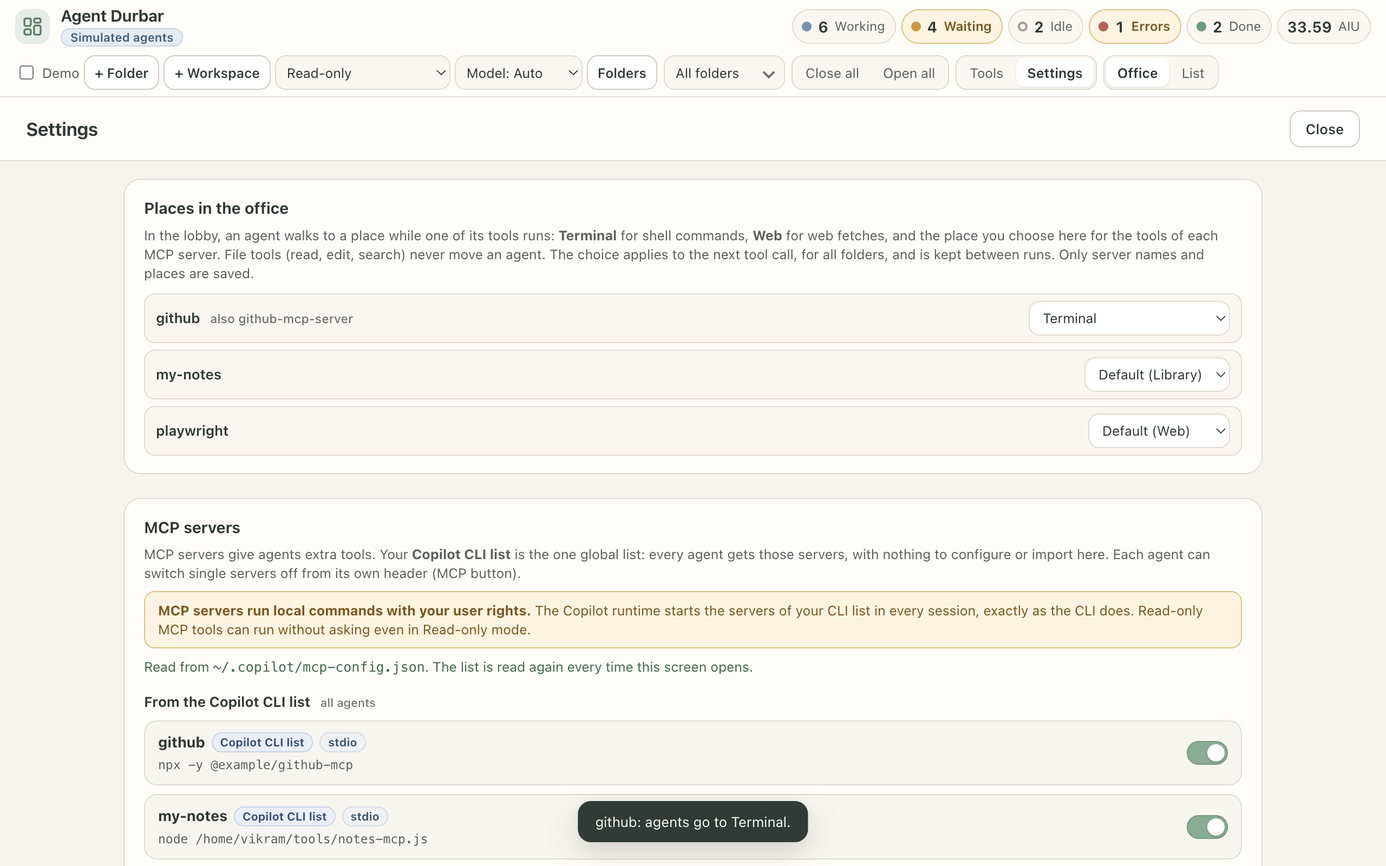
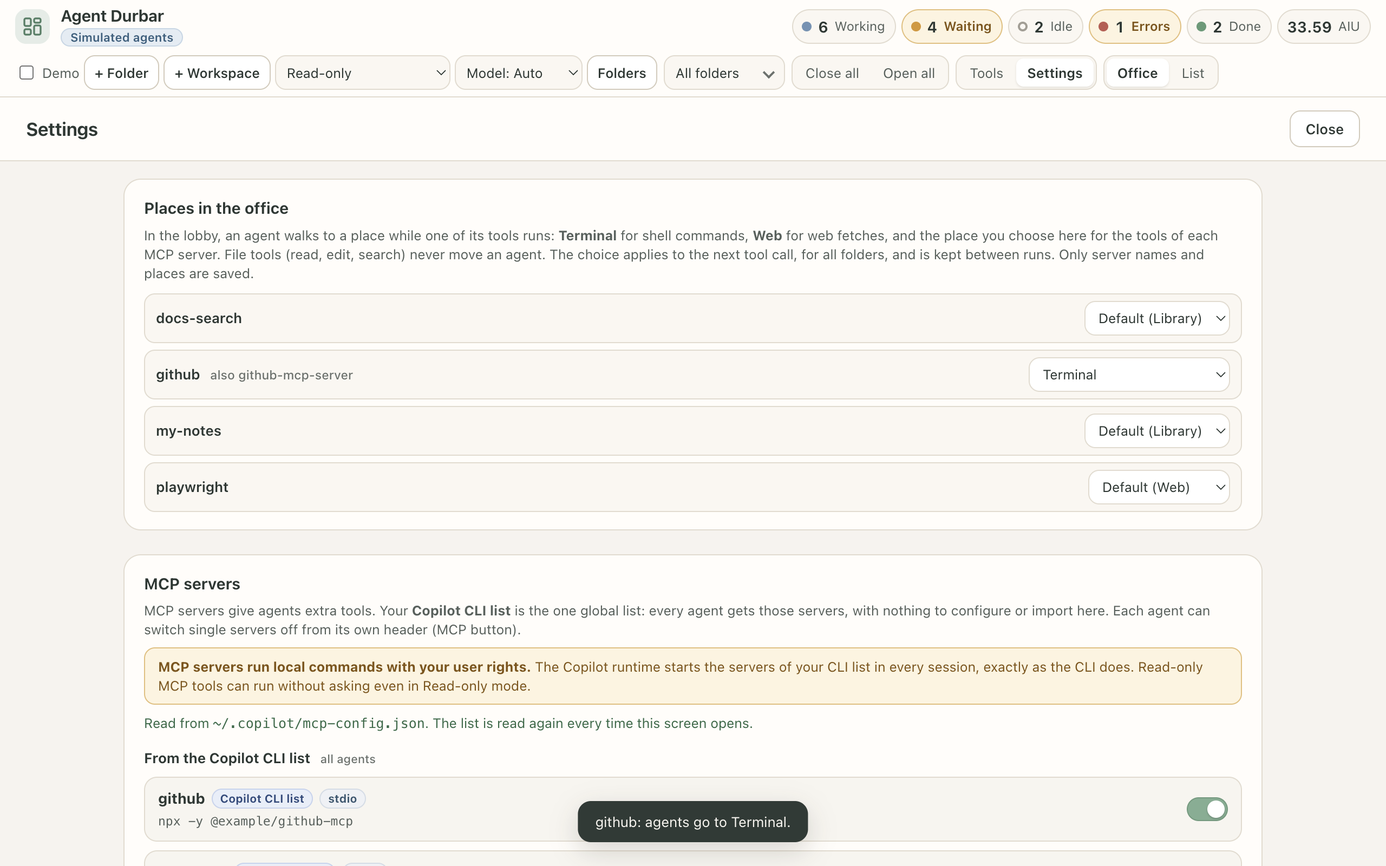
024 delta (issue #116): list per-folder MCP extras in Settings > Places before use
McpStore.extraNames returns the names of every saved folder's extras
(any state, names only, reserved CLI names left out ignoring case,
capped at 500) over a no-argument IPC mcp:extraNames. Settings merges
them through mergePlaceNames before placeRows. Tests in test:mcp and
test:places; shots-024 checks the docs-search row and one playwright
row; Places screenshot retaken. T011, T016-T018.

diff --git a/scripts/test-mcp.ts b/scripts/test-mcp.ts
@@ -449,4 +449,82 @@ const codec = (available = true): SecretCodec => ({
   assert.deepStrictEqual(cliServers(cliDir, new Set()).servers.map((x) => x.name), cliNamesNow, 'the global list is unchanged by a per-folder import');
   assert.strictEqual(fs.readFileSync(fileA, 'utf8'), beforeA);
 }
+// 10. Names of every folder's extras for Settings > Places (spec 024 FR-015, issue #116)
+{
+  const f = tmp();
+  const s = new McpStore(f, codec());
+  s.load();
+  assert.deepStrictEqual(s.extraNames(), [], 'empty store');
+  const stdio = (name: string) => ({ name, transport: 'stdio', command: '/secret/bin/tool-cmd', args: ['--token-arg'], workingDirectory: '/secret/cwd' });
+  assert.ok(s.upsert(K1, stdio('docs-search')).ok); // off, untrusted
+  assert.ok(s.upsert(K1, stdio('on-one')).ok && s.setEnabled(K1, 'on-one', true, true).ok); // on + trusted
+  assert.ok(s.upsert(K1, { name: 'with-secret', transport: 'http', url: 'https://example.test/mcp', headers: [{ key: 'X-Api-Key', value: SECRET }] }).ok);
+  assert.ok(s.upsert(K2, stdio('docs-search')).ok, 'same name in another folder');
+  assert.ok(s.upsert(K2, stdio('notes')).ok && s.upsert(K2, stdio('Notes')).ok === false, 'case variants clash inside one folder');
+  assert.ok(s.upsert(K1, stdio('Notes')).ok, 'a case variant in another folder is a different exact name');
+  assert.ok(s.upsert(K2, stdio('constructor')).ok);
+  assert.deepStrictEqual(s.extraNames(), ['Notes', 'constructor', 'docs-search', 'notes', 'on-one', 'with-secret'], 'every state, each exact name once, sorted');
+  const out = JSON.stringify(s.extraNames());
+  for (const leak of ['/secret', 'tool-cmd', '--token-arg', 'example.test', SECRET, K1, K2, 'X-Api-Key']) assert.ok(!out.includes(leak), 'names only: ' + leak);
+  assert.ok(s.extraNames().every((n) => typeof n === 'string'));
+  // secrets missing: a header with no stored value (saved without an OS store) is still listed
+  {
+    const nf = tmp();
+    const ns = new McpStore(nf, codec(true));
+    ns.load();
+    assert.ok(ns.upsert(K1, { name: 'needs-secret', transport: 'http', url: 'https://example.test/mcp', headers: [{ key: 'X-Api-Key', value: SECRET }] }).ok);
+    const ls = new McpStore(nf, codec(false)); // reload where the secret cannot be decrypted
+    ls.load();
+    assert.strictEqual(ls.list(K1)[0].needsSecrets, true, 'the secret is missing');
+    assert.deepStrictEqual(ls.extraNames(), ['needs-secret'], 'listed although its secrets are missing');
+  }
+  // reserved names (CLI list, built-in) are left out ignoring case; the others stay
+  assert.deepStrictEqual(s.extraNames(['NOTES', 'On-One']), ['constructor', 'docs-search', 'with-secret'], 'reserved ignores case and removes every case variant');
+  // does not touch the store
+  assert.strictEqual(s.list(K1).length, 4);
+  // a removed extra disappears, but only when no other folder has it
+  assert.ok(s.remove(K1, 'docs-search'));
+  assert.ok(s.extraNames().includes('docs-search'), 'folder B still has it');
+  assert.ok(s.remove(K2, 'docs-search'));
+  assert.ok(!s.extraNames().includes('docs-search'), 'removed everywhere: gone');
+  // survives a reload of the same file
+  const again = new McpStore(f, codec());
+  again.load();
+  assert.deepStrictEqual(again.extraNames(), s.extraNames(), 'same names after load()');
+  // legacy servers are not listed; a hand-edited prototype key or bad name is dropped
+  const g = tmp();
+  const doc = {
+    version: 2,
+    folders: { [K1]: [
+      { name: 'good', transport: 'stdio', command: 'node' },
+      { name: '__proto__', transport: 'stdio', command: 'node' },
+      { name: 'bad name', transport: 'stdio', command: 'node' },
+      { name: 'x'.repeat(49), transport: 'stdio', command: 'node' },
+    ] },
+    legacy: [{ name: 'old-fetch', transport: 'stdio', command: 'uvx' }],
+  };
+  fs.writeFileSync(g, JSON.stringify(doc));
+  const h = new McpStore(g, codec());
+  h.load();
+  assert.deepStrictEqual(h.extraNames(), ['good'], 'legacy, __proto__, bad and too long names are not listed');
+  assert.strictEqual(({} as Record<string, unknown>).good, undefined, 'no pollution');
+  // a broken file gives an empty list
+  const b = tmp();
+  fs.writeFileSync(b, '{ not json');
+  const bs = new McpStore(b, codec());
+  bs.load();
+  assert.deepStrictEqual(bs.extraNames(['x']), []);
+  // the cap: 600 distinct names over 7 folders -> 500, sorted
+  const cf = tmp();
+  const big: Record<string, unknown[]> = {};
+  for (let i = 0; i < 600; i++) (big['/work/f' + (i % 7)] ??= []).push({ name: 'srv' + String(i).padStart(3, '0'), transport: 'stdio', command: 'node' });
+  fs.writeFileSync(cf, JSON.stringify({ version: 2, folders: big, legacy: [] }));
+  const cs = new McpStore(cf, codec());
+  cs.load();
+  const capped = cs.extraNames();
+  assert.strictEqual(capped.length, 500, 'capped at 500');
+  assert.deepStrictEqual(capped, [...capped].sort(), 'sorted');
+  assert.strictEqual(capped[0], 'srv000');
+  assert.strictEqual(capped[499], 'srv499', 'the first 500 by name');
+}
 console.log('mcp tests passed');

diff --git a/src/renderer/screens.js b/src/renderer/screens.js
@@ -86,8 +86,8 @@
     const fileNote=!f.found?`<p class="scr-note" role="status">No <code>${esc(f.label)}</code> yet. Servers you add with the Copilot CLI (<code>/mcp add</code>) or by editing that file appear here by themselves. The built-in GitHub server is always listed.</p>`
       :f.error?`<p class="scr-note warn" role="status"><code>${esc(f.label)}</code> could not be read (${esc(f.error)}). Fix the file; this list updates the next time you open this screen.</p>`
       :`<p class="scr-note ok" role="status">Read from <code>${esc(f.label)}</code>${f.skipped?` · ${f.skipped} entr${f.skipped>1?'ies were':'y was'} skipped (not usable)`:''}. The list is read again every time this screen opens.</p>`;
-    /* Places (spec 024 FR-008): which place the tool calls of each MCP server walk to. Servers: the Copilot CLI list, every server seen in
-       tool events this run (folder extras show up once an agent uses them) and any already mapped. */
+    /* Places (spec 024 FR-008): which place the tool calls of each MCP server walk to. Servers: the Copilot CLI list, the names of every saved folder's
+       extras, every server seen in tool events this run and any already mapped. */
     /* Agent mood (spec 034 FR-004): Serious mode turns the monster, ambulance and the other drawings off */
     const moodSec=X.bridge.setSeriousMode&&X.isSerious?`<section class="scr-sec" aria-labelledby="moodH"><h3 id="moodH">Agent mood</h3>
         <p class="scr-note">Agent figures get heavier from 70% of their context window and turn into a grumpy monster above 90% (a hint to start a fresh session). Trouble gets a drawing too: an ambulance when a session errors (one at a time), a faint at the credit limit, an agent tapping the desk after 60 s waiting for you, and dizzy stars after 3 failed tool calls in a row. The text and percentages never change. Serious mode turns every drawing off.</p>
@@ -95,7 +95,10 @@
     let placesSec='';
     if(X.bridge.setPlace&&X.places){
       const P=X.places, map=app.placeMap||{};
-      const names=[...new Set([...mcp.cli.map(c=>c.name),...X.placeServers(),...Object.keys(map)])];
+      /* names of every saved folder's extras (spec 024 FR-016); a missing call or bad data keeps today's list */
+      let extra=null;
+      if(X.bridge.mcpExtraNames){try{extra=await X.bridge.mcpExtraNames();}catch(e){extra=null;}}
+      const names=P.mergePlaceNames(mcp.cli.map(c=>c.name),extra,X.placeServers(),Object.keys(map));
       const rows=P.placeRows(names,map).map(({name:n,aliases,value:v})=>{const note=aliases.length?' also '+aliases.join(', '):'';
         return `<li class="plrow" data-srv="${esc(n)}" data-alias="${esc(aliases.join('\n'))}"><span class="plname" title="${esc(n+note)}">${esc(n)}${note?` <small>${esc(note.trim())}</small>`:''}</span><select data-place-sel aria-label="Place for the tools of ${esc(n)}"><option value=""${v?'':' selected'}>Default (${esc(P.placeName(P.defaultServerPlace(n)))})</option>${P.PLACES.map(p=>`<option value="${p.id}"${v===p.id?' selected':''}>${esc(p.name)}</option>`).join('')}<option value="desk"${v==='desk'?' selected':''}>Stay at desk</option></select></li>`;}).join('');
       placesSec=`<section class="scr-sec" aria-labelledby="plH"><h3 id="plH">Places in the office</h3>

diff --git a/scripts/test-places.ts b/scripts/test-places.ts
@@ -20,6 +20,7 @@ const P = require(path.join(__dirname, '..', '..', 'src', 'renderer', 'places.js
   classify: (e: unknown, map?: unknown) => string;
   canonicalServer: (s: unknown) => unknown;
   placeRows: (names: unknown, map?: unknown) => { name: string; aliases: string[]; value: string }[];
+  mergePlaceNames: (cli: unknown, extra: unknown, seen: unknown, mapped: unknown) => string[];
   placeSaves: (name: string, place: string | null, aliases?: string[]) => [string, string | null][];
   defaultServerPlace: (s: unknown) => string;
   toolLabel: (e: unknown) => string;
@@ -206,6 +207,20 @@ assert.deepStrictEqual(rows(['github', 'github-mcp-server'], { github: 'library'
 {
   const both = { github: 'library', 'github-mcp-server': 'web' };
   assert.strictEqual(P.placeRows(['github', 'github-mcp-server'], both)[0].value, c('x', 'github-mcp-server', both), 'both keys: the row shows what classify() does for a github-mcp-server call');
+}
+// FR-016: extra names from the main process are merged with the CLI list before placeRows: one row per name, aliases folded
+assert.deepStrictEqual(rows(['github', 'my-notes', ...['docs-search', 'github-mcp-server', 'my-notes', 'playwright'], 'playwright']), ['docs-search||', 'github|github-mcp-server|', 'my-notes||', 'playwright||'], 'an extra that is a CLI name or an alias gives one row; an unused extra gets a default row');
+assert.deepStrictEqual(rows([...new Set(['github', 'my-notes', 'github-mcp-server', 'docs-search'])], { 'docs-search': 'web' }), ['docs-search||web', 'github|github-mcp-server|', 'my-notes||'], 'an unused extra can carry a saved place');
+{
+  const m = P.mergePlaceNames;
+  const cli = ['github', 'my-notes', 'github-mcp-server'];
+  assert.deepStrictEqual(m(cli, { ok: true, names: ['docs-search', 'playwright'] }, ['playwright'], []), ['github', 'my-notes', 'github-mcp-server', 'docs-search', 'playwright'], 'extras are added, each name once');
+  for (const bad of [undefined, null, 'x', 5, {}, { ok: true }, { names: 'x' }, { names: null }, { names: { 0: 'a' } }]) assert.deepStrictEqual(m(cli, bad, [], []), cli, 'no usable result adds nothing: ' + JSON.stringify(bad));
+  assert.deepStrictEqual(m([], { names: [1, '', 'a', null, {}, 'a', 'b'] }, [], []), ['a', 'b'], 'only non-empty strings are kept');
+  assert.deepStrictEqual(m(null, { names: ['x'] }, undefined, 'y'), ['x'], 'bad lists are ignored');
+  assert.deepStrictEqual(m([], null, [], ['only-mapped']), ['only-mapped'], 'a name that is only mapped is kept');
+  const merged = m(cli, { names: ['docs-search', 'playwright', 'github-mcp-server', 'acme'] }, ['playwright', 'acme'], ['acme', 'docs-search']);
+  assert.deepStrictEqual(rows(merged, { acme: 'web' }), ['acme||web', 'docs-search||', 'github|github-mcp-server|', 'my-notes||', 'playwright||'], 'an extra that is also seen, mapped, a CLI name or an alias gives one row');
 }
 assert.deepStrictEqual(rows(['acme'], { acme: 'terminal' }), ['acme||terminal'], 'other rows unchanged');
 assert.deepStrictEqual(rows(['github'], Object.create({ github: 'web' })), ['github||'], 'inherited keys ignored');

diff --git a/src/main/mcpstore.ts b/src/main/mcpstore.ts
@@ -8,7 +8,7 @@
  */
 import * as fs from 'fs';
 import * as path from 'path';
-import { MAX_SERVERS, trustHash, validateInput } from '../shared/mcp';
+import { MAX_SERVERS, NAME_RE, trustHash, validateInput } from '../shared/mcp';
 import type { McpSecretKey, McpServerInput, McpServerSpec, McpServerView, McpTransport, McpTrustInfo } from '../shared/mcp';
 
 export interface SecretCodec {
@@ -55,6 +55,7 @@ export interface SessionMcp {
 const MAX_FILE = 2 * 1024 * 1024;
 const MAX_FOLDERS = 200;
 const MAX_KEY = 4096;
+const MAX_EXTRA_NAMES = 500;
 const lc = (s: string): string => String(s).toLowerCase();
 
 export class McpStore {
@@ -213,6 +214,22 @@ export class McpStore {
   /** Servers of the old app-level list: shown (off, not applied) so the user can move or remove them. */
   legacyList(): McpServerView[] {
     return this.legacyRecs.map((r) => ({ ...this.view(r), enabled: false }));
+  }
+
+  /**
+   * Names only (spec 024 FR-015): the extras of every saved folder, in any state (on, off, untrusted, secrets missing), each exact name once,
+   * for the Settings > Places list. Memory only; no command, URL, env, folder key or path. Old app-level servers are not included. A name that
+   * matches `reserved` (the Copilot CLI list, built-in servers) ignoring case is left out: its CLI row already covers it.
+   */
+  extraNames(reserved: Iterable<string> = []): string[] {
+    const taken = new Set<string>([...reserved].map(lc));
+    const out = new Set<string>();
+    for (const list of this.folders.values())
+      for (const r of list) {
+        if (typeof r.name !== 'string' || !NAME_RE.test(r.name) || r.name === '__proto__' || taken.has(lc(r.name))) continue;
+        out.add(r.name);
+      }
+    return [...out].sort((a, b) => (a < b ? -1 : a > b ? 1 : 0)).slice(0, MAX_EXTRA_NAMES);
   }
 
   trustInfo(key: string, name: string): McpTrustInfo | undefined {

diff --git a/src/renderer/places.js b/src/renderer/places.js
@@ -50,6 +50,15 @@
       return r;
     }).sort((a,b)=>a.name.localeCompare(b.name));
   }
+  /* Names for Settings > Places (spec 024 FR-016): the Copilot CLI servers, the names of every saved folder's extras (`extraResult` is what
+     mcpExtraNames() returned; anything but {names:[...]} adds nothing and non-string or empty entries are skipped), servers seen in tool events
+     this run and the names already mapped. Each exact name once; placeRows then folds aliases and case-sensitive duplicates stay as they are. */
+  function mergePlaceNames(cli,extraResult,seen,mapped){
+    const list=v=>Array.isArray(v)?v:[];
+    const extra=extraResult&&typeof extraResult==='object'&&Array.isArray(extraResult.names)?extraResult.names:[];
+    const all=[...list(cli),...extra,...list(seen),...list(mapped)];
+    return [...new Set(all.filter(n=>typeof n==='string'&&n))];
+  }
   /* Saves for one row: the canonical key gets the choice (null = default), then every alias key is cleared. */
   function placeSaves(name,place,aliases){
     return [[name,place],...(aliases||[]).map(a=>[a,null])];
@@ -156,5 +165,5 @@
     return {shown:cap-1,more:count-(cap-1)};
   }
 
-  return {PLACES,IDS,placeName,classify,canonicalServer,placeRows,placeSaves,defaultServerPlace,toolLabel,createVisits,layoutSpots};
+  return {PLACES,IDS,placeName,classify,canonicalServer,placeRows,mergePlaceNames,placeSaves,defaultServerPlace,toolLabel,createVisits,layoutSpots};
 })());

diff --git a/scripts/shots-024.js b/scripts/shots-024.js
@@ -39,6 +39,16 @@ module.exports = async (ctx) => {
     await ctx.sleep(1500);
     await settle();
 
+    // FR-016/FR-017 (issue #116): Settings lists docs-search (an extra that is off, untrusted and never called) with the default place, and one playwright row
+    await js(`document.getElementById('settingsBtn').click()`); await ctx.sleep(900);
+    const ex = await js(`(()=>{const q=n=>[...document.querySelectorAll('#plList .plrow')].filter(r=>r.dataset.srv===n);const d=q('docs-search')[0];const o=d&&d.querySelector('select option:checked');return {docs:q('docs-search').length,docsDefault:o?o.textContent.trim():'',pw:q('playwright').length}})()`);
+    assert.strictEqual(ex.docs, 1, 'Settings lists docs-search before any call');
+    // the name rules send `docs*` servers to the Library by default (spec 024 #116 scenario 1)
+    assert.strictEqual(ex.docsDefault, 'Default (Library)', 'docs-search shows the default place: ' + ex.docsDefault);
+    assert.strictEqual(ex.pw, 1, 'exactly one playwright row');
+    console.log('[024]', w, 'extras rows', JSON.stringify(ex));
+    await js(`document.getElementById('scrClose').click()`); await ctx.sleep(500);
+
     // SC-001: the right place for each open call, empty chair at the desk, figures on slots
     const vs = await visits();
     console.log('[024]', w, 'visits', JSON.stringify(vs.map((v) => `${v.name}@${v.place}:${v.label}`)));

diff --git a/src/renderer/sim.ts b/src/renderer/sim.ts
@@ -524,6 +524,12 @@ const SIM_EXPENSIVE: Record<string, number> = { Omar: 11 };
     const folderName = (key: string): string => key.replace(/\/+$/, '').split('/').pop() || key;
     const mcpApi: Partial<DurbarApi> = {
       mcpState: async () => ({ cli: fakeCli.map((a) => ({ ...a })), file: { label: '~/.copilot/mcp-config.json', found: true, skipped: 0 }, secretsPersist: true }),
+      mcpExtraNames: async () => {
+        const taken = new Set(fakeCli.map((a) => a.name.toLowerCase()));
+        const names = new Set<string>();
+        for (const list of Object.values(fakeExtras)) for (const v of list) if (!taken.has(v.name.toLowerCase())) names.add(v.name);
+        return { ok: true, names: [...names].sort().slice(0, 500) };
+      },
       mcpSetCli: async (name, enabled) => { const a = fakeCli.find((x) => x.name === name); if (a) a.enabled = enabled; return { ok: !!a }; },
       mcpFolderState: async (key) => !knownFolder(key)
         ? { ok: false, error: 'Unknown folder.', key, name: '', servers: [], legacy: [], secretsPersist: true, skipped: [], cliNames: [] }

diff --git a/src/shared/api.ts b/src/shared/api.ts
@@ -347,6 +347,8 @@ export interface DurbarApi {
   usageResetTotals?(): Promise<UsageTotalsView>;
   /** MCP (specs 019, 020): the Copilot CLI list is global and read live; extras are per folder/workspace key (`workspaceFile ?? cwd`). */
   mcpState?(): Promise<McpState>;
+  /** Names of the extras of every saved folder (any state), nothing else: for the Places list (spec 024 FR-016). */
+  mcpExtraNames?(): Promise<{ ok: boolean; names: string[] }>;
   mcpSetCli?(name: string, enabled: boolean): Promise<{ ok: boolean }>;
   mcpFolderState?(key: string): Promise<McpFolderState>;
   mcpUpsert?(key: string, input: McpServerInput, originalName?: string): Promise<McpResult>;

diff --git a/src/main/mcpipc.ts b/src/main/mcpipc.ts
@@ -83,6 +83,8 @@ export function registerMcpIpc(deps: { store: () => McpStore; agents: Map<string
   };
 
   ipcMain.handle('mcp:state', () => state());
+  /** Names of every saved folder's extras, nothing else (spec 024 FR-016). No arguments; names that equal a CLI/built-in server are left out. */
+  ipcMain.handle('mcp:extraNames', () => ({ ok: true, names: store().extraNames(cliNames()) }));
   ipcMain.handle('mcp:setCli', (_e, name: unknown, enabled: unknown) => {
     if (typeof name !== 'string' || !name || name.length > 64) return { ok: false };
     store().setAmbientDisabled(name, enabled !== true);

diff --git a/src/preload/preload.ts b/src/preload/preload.ts
@@ -44,6 +44,7 @@ const api: DurbarApi = {
   usageTotals: () => ipcRenderer.invoke('usage:totals'),
   usageResetTotals: () => ipcRenderer.invoke('usage:resetTotals'),
   mcpState: () => ipcRenderer.invoke('mcp:state'),
+  mcpExtraNames: () => ipcRenderer.invoke('mcp:extraNames'),
   mcpSetCli: (name, enabled) => ipcRenderer.invoke('mcp:setCli', name, enabled),
   mcpFolderState: (key) => ipcRenderer.invoke('mcp:folderState', key),
   mcpUpsert: (key, input, originalName) => ipcRenderer.invoke('mcp:upsert', key, input, originalName),

diff --git a/specs/024-office-places/spec.md b/specs/024-office-places/spec.md
@@ -67,8 +67,8 @@ In Settings I see the MCP servers I use (the Copilot CLI list, my per-folder ext
 - **FR-005** `[IMPLEMENTED]` (sim:; check:office; walk observed 24 s live) **Walking**: when a visit starts, the agent's desk scene shows an empty chair and an overlay figure walks on a straight line from the desk to its spot at the place in about 1 s (walking animation, CSS only, no blur filters), stands there, and walks back the same way when the visit ends. At most 3 walks animate at once; others appear without animation. `prefers-reduced-motion`: no animation. Figure positions are recomputed after every render, so resizes and layout changes do not leave figures in the wrong place.
 - **FR-006** `[IMPLEMENTED]` (sim:; check:office) **Text stays**: the card's activity text and tooltip say `at <Place>: <tool>` while visiting; the overlay figures are `aria-hidden`; each place has an accessible label "Software library: Ada, Kenji".
 - **FR-007** `[IMPLEMENTED]` (test: credits, places) **Mapping storage**: `placeMap` (`{ [serverName]: placeId | 'desk' }`) in the existing app settings file (`durbar-settings.json`, spec 011), validated in the main process (known place ids only, server names trimmed and capped at 200 characters, at most 500 entries); IPC `settings:get` returns it, `settings:setPlace(server, place|null)` sets or clears one entry. Global per user; no per-folder override.
-- **FR-008** `[IMPLEMENTED]` (sim:) **Settings screen**: a "Places in the office" section lists MCP servers (the Copilot CLI list, every server seen in tool events during this run, and any already mapped; per-folder extras appear once an agent has used them, because extras cannot be listed globally), each with a place picker (Library, Software library, Terminal, Web, Other tools, Stay at desk) and "default" shown when unmapped; changes apply to the next tool call.
-  - `[KNOWN GAP]` (task T011) Per-folder MCP extras are listed only after an agent has used them in this run: extras are stored per folder and there is no app-wide list to read them from without opening each folder. → specified 2026-10-18 (issue #116): the main process lists the names of every saved folder's extras, see `## Changes` 2026-10-18 (second entry), FR-015..FR-017; planned in T016-T018.
+- **FR-008** `[IMPLEMENTED]` (sim:) **Settings screen**: a "Places in the office" section lists MCP servers (the Copilot CLI list, the names of every saved folder's extras (FR-015/FR-016, delta 2026-10-18 #116), every server seen in tool events during this run, and any already mapped), each with a place picker (Library, Software library, Terminal, Web, Other tools, Stay at desk) and "default" shown when unmapped; changes apply to the next tool call.
+  - ~~`[KNOWN GAP]`~~ resolved 2026-10-18 (task T011, issue #116): per-folder MCP extras used to be listed only after an agent has used them in this run: extras are stored per folder and there is no app-wide list to read them from without opening each folder. → specified 2026-10-18 (issue #116): the main process lists the names of every saved folder's extras, see `## Changes` 2026-10-18 (second entry), FR-015..FR-017; built in T016-T018 `[IMPLEMENTED]`.
 - **FR-009** `[IMPLEMENTED]` (check:office 105/105) **Calm UI** (constitution V): text at least 10.5px; with 15 simulated agents at 1440x900 and 1280x800 the lobby fits without overlapping rooms or scrolling the office (`npm run check:office` stays green, extended with lobby checks); no new strong colors.
 - **FR-010** `[IMPLEMENTED]` (test: places, credits; sim: shots-024.js, screenshots) **Tests, no credits**: classification, visit state machine (debounce, dwell, newest wins, leave on stop), lobby occupancy (`+N`), settings parsing; simulator screenshots with agents in the lobby and walking.
 - **FR-011** `[IMPLEMENTED]` (test: places, credits) Privacy: nothing leaves the machine; the mapping stores server names and place ids only.
@@ -129,11 +129,11 @@ Asked for by Ruben. Real Copilot runtime (Copilot CLI 1.0.95, SDK 1.0.22, model 
     - **Not the old app-level servers** (spec 020 "Old app-level servers (not applied)"): they are never passed to a session. One that is moved into a folder becomes a folder extra and is listed from then on.
     - **Not `.vscode/mcp.json` itself.** Only servers saved as extras are listed; servers in a folder's VS Code file that were never imported are not (that would mean reading files in folders, and those servers do not run).
     - **A separate IPC, `mcp:extraNames`** (no arguments), not a new field of `mcp:state`: `McpState` stays "the global list" (its comment in `src/shared/api.ts` keeps saying there is no app-level list of extras), and a renderer without the call (an older simulator bridge) keeps today's list.
-  - **FR-015** `[KNOWN GAP]` (planned: T016) `McpStore.extraNames(reserved)` in `src/main/mcpstore.ts`: the names of the extras of every saved folder, each name once (exact match: `placeMap` and tool events are keyed by the exact name), sorted, at most 500 (the `placeMap` cap). A name that matches a `reserved` name (the Copilot CLI list and the built-in servers) ignoring case is left out: the CLI row already covers it, and `forSession` never passes such an extra. Legacy servers are not included. Reads memory only (no file system access per call), so folder keys and path styles (`C:\...`, `/home/...`, `.code-workspace` files) play no part and Windows, macOS and Linux behave the same. Unit tests in `scripts/test-mcp.ts`.
-  - **FR-016** `[KNOWN GAP]` (planned: T017) IPC `mcp:extraNames` in `src/main/mcpipc.ts` returns `{ ok: true, names }` with `reserved` = the current CLI names (`cliNames()`), preload `mcpExtraNames()`, type in `src/shared/api.ts` (agent-neutral, names only), and a simulator bridge in `src/renderer/sim.ts` built from its fake extras (so `docs-search`, a fake extra that is off, untrusted and never called, gets a row). Settings > Places (`src/renderer/screens.js`) adds these names to the list before `placeRows`, so `canonicalServer` and the one-row rule of FR-013 apply to them too. If the call is missing, fails or returns something that is not a list of strings, Settings shows today's list and no error. The list is read every time Settings opens, like the CLI list.
-  - **FR-017** `[KNOWN GAP]` (planned: T018) Checks and docs: `scripts/shots-024.js` opens Settings with no call from `docs-search` and checks that its row is there with the default place, and that `playwright` (a fake extra that is also seen in events) has one row; `check:office` stays green (no office change). Docs: README places text (drop "per-folder extras appear once an agent has used them"), CHANGELOG *Unreleased*, specs index row, the comment above the Places section in `screens.js`, and FR-008's known gap marked resolved. The Settings screenshot is retaken only if the visible rows change.
+  - **FR-015** `[IMPLEMENTED]` (T016; test: `test:mcp` section 10) `McpStore.extraNames(reserved)` in `src/main/mcpstore.ts`: the names of the extras of every saved folder, each name once (exact match: `placeMap` and tool events are keyed by the exact name), sorted in plain code-unit order (the same on every platform; the visible rows are still sorted by `placeRows`), at most 500 (the `placeMap` cap). A name that matches a `reserved` name (the Copilot CLI list and the built-in servers) ignoring case is left out: the CLI row already covers it, and `forSession` never passes such an extra. Legacy servers are not included. Reads memory only (no file system access per call), so folder keys and path styles (`C:\...`, `/home/...`, `.code-workspace` files) play no part and Windows, macOS and Linux behave the same. Unit tests in `scripts/test-mcp.ts`.
+  - **FR-016** `[IMPLEMENTED]` (T017; test: `test:places` `mergePlaceNames`; sim: `shots-024.js`) IPC `mcp:extraNames` in `src/main/mcpipc.ts` returns `{ ok: true, names }` with `reserved` = the current CLI names (`cliNames()`), preload `mcpExtraNames()`, type in `src/shared/api.ts` (agent-neutral, names only), and a simulator bridge in `src/renderer/sim.ts` built from its fake extras (so `docs-search`, a fake extra that is off, untrusted and never called, gets a row). Settings > Places (`src/renderer/screens.js`) adds these names to the list before `placeRows`, so `canonicalServer` and the one-row rule of FR-013 apply to them too. If the call is missing, fails or returns something that is not a list of strings, Settings shows today's list and no error. The list is read every time Settings opens, like the CLI list.
+  - **FR-017** `[IMPLEMENTED]` (T018; sim: `shots-024.js` at 1440x900 and 1280x800, `check:office`) Checks and docs: `scripts/shots-024.js` opens Settings with no call from `docs-search` and checks that its row is there with the default place, and that `playwright` (a fake extra that is also seen in events) has one row; `check:office` stays green (no office change). Docs: README places text (drop "per-folder extras appear once an agent has used them"), CHANGELOG *Unreleased*, specs index row, the comment above the Places section in `screens.js`, and FR-008's known gap marked resolved. The Settings screenshot is retaken only if the visible rows change.
   - **Acceptance scenarios**
-    1. **Given** a folder with an extra `docs-search` that is off and not trusted, and no agent has called it, **When** the user opens Settings, **Then** Places lists `docs-search` with "Default (Other tools)", and choosing a place saves it like any other row (FR-007) without switching the server on or trusting it.
+    1. **Given** a folder with an extra `docs-search` that is off and not trusted, and no agent has called it, **When** the user opens Settings, **Then** Places lists `docs-search` with "Default (Library)" (the built-in name rules send `docs*` servers to the Library), and choosing a place saves it like any other row (FR-007) without switching the server on or trusting it.
     2. **Given** two folders that both have an extra `notes`, **When** Settings opens, **Then** there is one `notes` row.
     3. **Given** an extra with the same name as a Copilot CLI server (any case, for example `GitHub` next to the CLI's `github`), **When** Settings opens, **Then** only the CLI row is shown.
     4. **Given** an extra `notes` that is also seen in this run's tool events and already mapped, **When** Settings opens, **Then** there is one `notes` row with the saved place.

diff --git a/specs/024-office-places/tasks.md b/specs/024-office-places/tasks.md
@@ -10,7 +10,7 @@
 - [x] T008 `check:office` lobby checks; fit at 1440x900 and 1280x800 with 15 agents [FR-009, SC-002]
 - [x] T009 Simulator driver for SC-001/SC-003, screenshots (lobby with agents, one mid-walk) at both sizes, README status, specs index [FR-010, SC-001, SC-003]
 - [x] T010 Simulator: `bash`/`github`/`playwright`/`my-notes` calls last 1.5-4 s (seeded); with `DURBAR_SIM_FREEZE=1` a fixed set of agents stays mid-call so the lobby is occupied in screenshots [SC-001, FR-010]
-- [ ] T011 List per-folder MCP extras in Settings > Places before they are used (needs an app-wide read of every folder's extras; known gap under FR-008) → specified 2026-10-18 (issue #116): names of every saved folder's extras from the main process, see `## Changes`; built in T016-T018 (tick T011 when they are done)
+- [x] T011 List per-folder MCP extras in Settings > Places before they are used (needs an app-wide read of every folder's extras; known gap under FR-008) → specified 2026-10-18 (issue #116): names of every saved folder's extras from the main process, see `## Changes`; built in T016-T018 (tick T011 when they are done)
 - [x] T012 Built-in GitHub server: the list says `github`, events say `github-mcp-server`; make a mapping on one apply to both (or show the event name in Settings) [real: known gap] → specified 2026-10-18 (issue #117): one server, see `## Changes`; built in T013-T015
 
 ## 2026-10-18 delta: one GitHub server in Settings > Places (issue #117)
@@ -21,6 +21,6 @@
 
 ## 2026-10-18 delta: per-folder MCP extras in Settings > Places before they are used (issue #116)
 
-- [ ] T016 `McpStore.extraNames(reserved)` in `src/main/mcpstore.ts`: names of every saved folder's extras (any state), exact dedupe, reserved names left out ignoring case, legacy excluded, sorted, capped at 500, memory only; tests in `scripts/test-mcp.ts` [FR-015]
-- [ ] T017 IPC `mcp:extraNames` (`src/main/mcpipc.ts`), preload `mcpExtraNames()`, type in `src/shared/api.ts`, simulator bridge in `src/renderer/sim.ts`; Settings > Places adds the names before `placeRows`, falls back to today's list on a missing call or bad result; tests [FR-016]
-- [ ] T018 `scripts/shots-024.js` check (`docs-search` row with the default place before any call; one `playwright` row), `check:office`, README places text, CHANGELOG, specs index, `screens.js` comment, FR-008 gap resolved [FR-017]
+- [x] T016 `McpStore.extraNames(reserved)` in `src/main/mcpstore.ts`: names of every saved folder's extras (any state), exact dedupe, reserved names left out ignoring case, legacy excluded, sorted, capped at 500, memory only; tests in `scripts/test-mcp.ts` [FR-015]
+- [x] T017 IPC `mcp:extraNames` (`src/main/mcpipc.ts`), preload `mcpExtraNames()`, type in `src/shared/api.ts`, simulator bridge in `src/renderer/sim.ts`; Settings > Places adds the names before `placeRows`, falls back to today's list on a missing call or bad result; tests [FR-016]
+- [x] T018 `scripts/shots-024.js` check (`docs-search` row with the default place before any call; one `playwright` row), `check:office`, README places text, CHANGELOG, specs index, `screens.js` comment, FR-008 gap resolved [FR-017]
